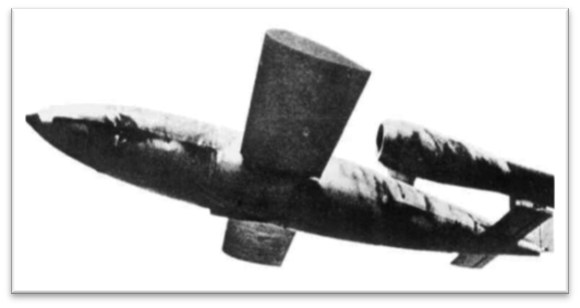
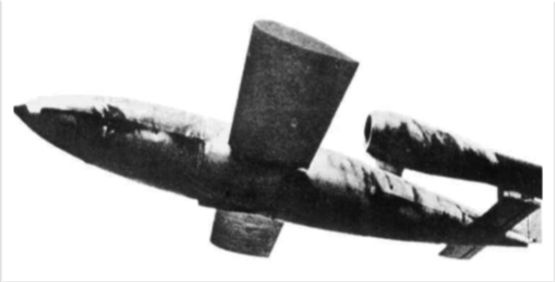
Fegyverek kész v2

Changed region(s): [[0.0, 0.0284, 1.0, 0.9929], [0.5207, 0.4255, 0.5514, 0.4539]]

diff --git a/Fegyverek.html b/Fegyverek.html
@@ -80,7 +80,7 @@
         </div>
 
         <div class="col-lg-3 row balra">
-            <img src="Kepek/Cold_War.jxl" alt="Hidegháború" class="kepek" style="max-width: 400px; margin-top: 30px;">
+            <img src="Kepek/Cold_War.jxl" alt="Hidegháború" class="kepek" style="max-width: 400px">
         </div>
 
         <div class="col-lg-9 row szoveg">
@@ -148,7 +148,7 @@
         </div>
 
         <div class="col-lg-3 row jobbra">
-            <img src="Kepek/Modern grenades.jpg" alt="Modern gránátok" class="kepek" style="margin: 30px 25px 0px 5px;">
+            <img src="Kepek/Modern grenades.jpg" alt="Modern gránátok" class="kepek" style="margin: 35px 25px 0px 5px;">
         </div>
 
         <div class="col-lg-9 row szoveg">
@@ -164,7 +164,7 @@
 
         
         <div class="col-lg-3 row balra">
-            <img src="Kepek/Early rockets.jfif" alt="Korai rakéták" class="kepek">
+            <img src="Kepek/Early rockets.jfif" alt="Korai rakéták" class="kepek" style="margin-top: 20px;">
         </div>
 
         <div class="col-lg-9 row szoveg">
@@ -174,34 +174,34 @@
         </div>
 
         <div class="col-lg-3 row jobbra">
-            <img src="Kepek/WW2 rockets.webp" alt="2. Világháborús rakéták" class="kepek">
+            <img src="Kepek/WW2 rockets.webp" alt="2. Világháborús rakéták" class="kepek" style="margin-top: 20px;">
         </div>
 
         <div class="col-lg-9 szoveg">
             <h3>A világháború áttörései</h3>
-            <p>A második világháborúban a rakéták új szerepet kaptak a harctéren. A szovjet Katyusa sorozatvetők rövid idő alatt nagy mennyiségű rakétát tudtak kilőni, így jelentős tűzerőt biztosítottak a szárazföldi csapatoknak. A rakétatüzérség gyorsan a hagyományos tüzérséget kiegészítő fontos eszközzé vált.</p>
-            <p>Ezzel párhuzamosan Németországban kifejlesztették a <span class="elo-nezet">V–2<span class="elo-nezet-kep">
+            <p style="font-size: 19px;">A második világháborúban a rakéták új szerepet kaptak a harctéren. A szovjet Katyusa sorozatvetők rövid idő alatt nagy mennyiségű rakétát tudtak kilőni, így jelentős tűzerőt biztosítottak a szárazföldi csapatoknak. A rakétatüzérség gyorsan a hagyományos tüzérséget kiegészítő fontos eszközzé vált.</p>
+            <p style="font-size: 19px;">Ezzel párhuzamosan Németországban kifejlesztették a <span class="elo-nezet">V–2<span class="elo-nezet-kep">
                 <img src="Kepek/V-2 missile.webp" alt="V–2 ballisztikus rakéta"></span></span> ballisztikus rakétát. Ez a fegyver a nagy hatótávolságú rakétatechnika egyik meghatározó állomása volt. Bár pontossága korlátozott maradt, fejlesztése fontos tapasztalatokat adott a későbbi rakétaprogramok számára.</p>
         </div>
 
         <div class="col-lg-3 row balra">
-            <img src="Kepek/Cold war rockets.jpg" alt="Hidegháborús gránátok" class="kepek">
+            <img src="Kepek/Cold war rockets.jpg" alt="Hidegháborús gránátok" class="kepek" style="margin-top: 20px;">
         </div>
 
         <div class="col-lg-9 row szoveg">
             <h3>A hidegháború rakétaversenye</h3>
-            <p style="font-size: 20px;">A második világháborút követően az Egyesült Államok és a Szovjetunió hatalmas erőforrásokat fordított a rakétatechnológia fejlesztésére. A rakéták egyre nagyobb hatótávolságra jutottak, miközben fejlődött az irányításuk és a célba juttatásuk pontossága.</p>
-            <p style="font-size: 20px;">A hidegháború során megjelentek a ballisztikus rakéták különböző típusai, a légvédelmi rakétarendszerek és a páncéltörő irányított rakéták is. A technológia a nukleáris elrettentésben szintén központi szerepet kapott, így a rakéták nemcsak a harctéri fegyverek, hanem a nagyhatalmi stratégia fontos elemeivé váltak.</p>
+            <p style="font-size: 20.5px;">A második világháborút követően az Egyesült Államok és a Szovjetunió hatalmas erőforrásokat fordított a rakétatechnológia fejlesztésére. A rakéták egyre nagyobb hatótávolságra jutottak, miközben fejlődött az irányításuk és a célba juttatásuk pontossága.</p>
+            <p style="font-size: 20.5px;">A hidegháború során megjelentek a ballisztikus rakéták különböző típusai, a légvédelmi rakétarendszerek és a páncéltörő irányított rakéták is. A technológia a nukleáris elrettentésben szintén központi szerepet kapott, így a rakéták nemcsak a harctéri fegyverek, hanem a nagyhatalmi stratégia fontos elemeivé váltak.</p>
         </div>
 
         <div class="col-lg-3 row jobbra">
-            <img src="Kepek/Modern rockets.webp" alt="Modern gránátok" class="kepek">
+            <img src="Kepek/Modern rockets.webp" alt="Modern gránátok" class="kepek" style="margin-top: 30px;">
         </div>
 
         <div class="col-lg-9 row szoveg">
             <h3>A precíziós csapásmérés kora</h3>
-            <p style="font-size: 19px;">A modern rakétarendszerek fejlett navigációs és irányítási megoldásokat alkalmaznak, amelyek jelentősen növelik a pontosságot. A hagyományos sorozatvetők mellett ma már olyan rendszerek is elterjedtek, amelyek irányított rakétákkal képesek meghatározott célpontokat támadni.</p>
-            <p style="font-size: 19px;">A rakéták felhasználási területe rendkívül széles: a légvédelmi rendszerektől a harctéri tüzérségen át a nagy hatótávolságú stratégiai fegyverekig terjed. A fejlődés fő irányát a pontosság, a hatótávolság és a különböző védelmi rendszerekkel szembeni hatékonyság növelése jelenti.</p>
+            <p style="font-size: 20px;">A modern rakétarendszerek fejlett navigációs és irányítási megoldásokat alkalmaznak, amelyek jelentősen növelik a pontosságot. A hagyományos sorozatvetők mellett ma már olyan rendszerek is elterjedtek, amelyek irányított rakétákkal képesek meghatározott célpontokat támadni.</p>
+            <p style="font-size: 20px;">A rakéták felhasználási területe rendkívül széles: a légvédelmi rendszerektől a harctéri tüzérségen át a nagy hatótávolságú stratégiai fegyverekig terjed. A fejlődés fő irányát a pontosság, a hatótávolság és a különböző védelmi rendszerekkel szembeni hatékonyság növelése jelenti.</p>
         </div>
 
 
@@ -209,7 +209,7 @@
 
 
         <div class="col-lg-3 row balra">
-            <img src="Kepek/Early drone.png" alt="Korai drónok" class="kepek">
+            <img src="Kepek/Early drone.png" alt="Korai drónok" class="kepek" style="margin-top: 20px;">
         </div>
 
         <div class="col-lg-9 row szoveg">
@@ -219,33 +219,34 @@
         </div>
 
         <div class="col-lg-3 row jobbra">
-            <img src="Kepek/Cold war drone.jpg" alt="Hidegháborús drón" class="kepek">
+            <img src="Kepek/Cold war drone.jpg" alt="Hidegháborús drón" class="kepek" style="margin-top: 30px;">
         </div>
 
         <div class="col-lg-9 szoveg">
             <h3>A felderítés új eszközei</h3>
-            <p style="font-size: 20px;">A hidegháborúban a drónok egyik legfontosabb feladata a felderítés lett. A pilóta nélküli repülőgépek segítségével olyan területekről is információkat lehetett gyűjteni, amelyek megközelítése emberes repülőgépekkel kockázatosnak bizonyult.</p>
-            <p style="font-size: 20px;">A kamerák, az adatátviteli rendszerek és a navigáció fejlődésével a drónok egyre hasznosabbá váltak a katonai vezetés számára. A megszerzett felvételek segítették az ellenséges csapatmozgások megfigyelését és a katonai helyzet értékelését.</p>
+            <p style="font-size: 20px;">A hidegháború idején a drónok egyik legfontosabb feladata a felderítés lett. Ez különösen fontos volt a két szuperhatalom közötti feszültség idején, amikor az ellenséges katonai tevékenység megfigyelése stratégiai jelentőséggel bírt.</p>
+            <p style="font-size: 20px;">A kamerák, az adatátviteli rendszerek és a navigáció fejlődésével a drónok egyre hasznosabbá váltak a katonai vezetés számára. Jó példa erre az amerikai <span class="elo-nezet">Ryan Model 147<span class="elo-nezet-kep">
+                <img src="Kepek/Ryan Model 147.jpg" alt="Ryan Model 147"></span></span>, amelyet a hidegháború során légi felderítésre használtak, többek között ellenséges területek és katonai létesítmények megfigyelésére. A megszerzett felvételek segítették az ellenséges csapatmozgások követését és a katonai helyzet értékelését, miközben csökkentették a pilóták közvetlen veszélyeztetését.</p>
         </div>
 
         <div class="col-lg-3 row balra">
-            <img src="Kepek/2000s drone.webp" alt="2000s drón" class="kepek" style="margin-top: 60px;">
+            <img src="Kepek/2000s drone.webp" alt="2000s drón" class="kepek" style="margin-top: 75px;">
         </div>
 
         <div class="col-lg-9 row szoveg">
             <h3>A drónok elterjedése</h3>
-            <p style="font-size: 20px;">A 20. század végén és a 21. század elején a digitális elektronika, a műholdas navigáció és a fejlett kommunikációs rendszerek jelentősen felgyorsították a drónok fejlődését. Megjelentek a hosszú ideig a levegőben maradó katonai repülőgépek, amelyek már nemcsak megfigyelésre, hanem egyes esetekben fegyverek hordozására is alkalmasak voltak.</p>
-            <p style="font-size: 20px;">Ezzel párhuzamosan a kisebb drónok is egyre elterjedtebbé váltak. Az egyszerűbb eszközök alacsonyabb költségük és könnyű hordozhatóságuk miatt olyan katonai egységek számára is elérhetővé tették a légi megfigyelést, amelyek korábban nem rendelkeztek hasonló képességekkel.</p>
+            <p style="font-size: 20.5px;">A 20. század végén és a 21. század elején a digitális elektronika, a műholdas navigáció és a fejlett kommunikációs rendszerek jelentősen felgyorsították a drónok fejlődését. Megjelentek a hosszú ideig a levegőben maradó katonai repülőgépek, amelyek már nemcsak megfigyelésre, hanem egyes esetekben fegyverek hordozására is alkalmasak voltak.</p>
+            <p style="font-size: 20.5px;">Ezzel párhuzamosan a kisebb drónok is egyre elterjedtebbé váltak. Az egyszerűbb eszközök alacsonyabb költségük és könnyű hordozhatóságuk miatt olyan katonai egységek számára is elérhetővé tették a légi megfigyelést, amelyek korábban nem rendelkeztek hasonló képességekkel.</p>
         </div>
 
         <div class="col-lg-3 row jobbra">
-            <img src="Kepek/Modern drón.jpg" alt="Modern drón" class="kepek">
+            <img src="Kepek/Modern drón.jpg" alt="Modern drón" class="kepek" style="margin-top: 30px;">
         </div>
 
         <div class="col-lg-9 row szoveg">
             <h3>A modern hadviselés új dimenziója</h3>
-            <p style="font-size: 19px;">Napjainkban a drónok a modern hadviselés meghatározó eszközei. A kis méretű, kereskedelmi alapokra épülő eszközöktől a nagy hatótávolságú katonai repülőgépekig számos típus létezik. Felderítésre, megfigyelésre, célfelderítésre és támadó feladatokra egyaránt alkalmazzák őket.</p>
-            <p style="font-size: 19px;">A drónok elterjedése új kihívásokat is teremtett. A hagyományos légvédelmi rendszerek mellett egyre nagyobb jelentőséget kaptak az elektronikai zavaróeszközök, a drónelhárító rendszerek és az ellenséges pilóta nélküli eszközök felderítésére szolgáló technológiák. A drónok fejlődése jól mutatja, hogy a modern hadviselésben a viszonylag olcsó, kis méretű technológia is jelentős stratégiai hatással bírhat.</p>
+            <p style="font-size: 20.5px;">Napjainkban a drónok a modern hadviselés meghatározó eszközei. A kis méretű, kereskedelmi alapokra épülő eszközöktől a nagy hatótávolságú katonai repülőgépekig számos típus létezik. Felderítésre, megfigyelésre, célfelderítésre és támadó feladatokra egyaránt alkalmazzák őket.</p>
+            <p style="font-size: 20.5px;">A drónok elterjedése új kihívásokat is teremtett. A hagyományos légvédelmi rendszerek mellett egyre nagyobb jelentőséget kaptak az elektronikai zavaróeszközök, a drónelhárító rendszerek és az ellenséges pilóta nélküli eszközök felderítésére szolgáló technológiák. A drónok fejlődése jól mutatja, hogy a modern hadviselésben a viszonylag olcsó, kis méretű technológia is jelentős stratégiai hatással bírhat.</p>
         </div>
     </div>
     
